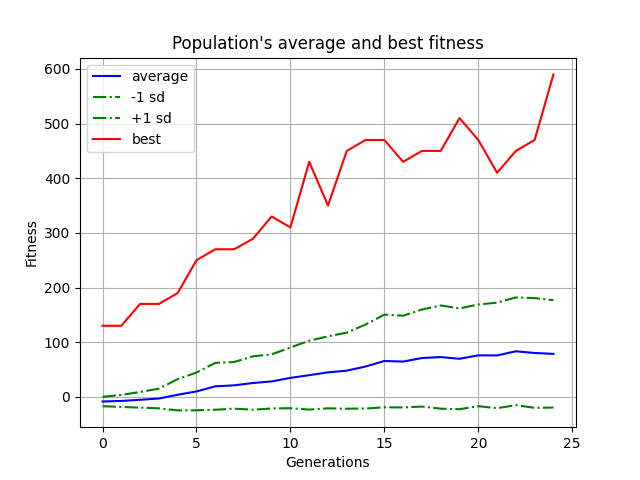
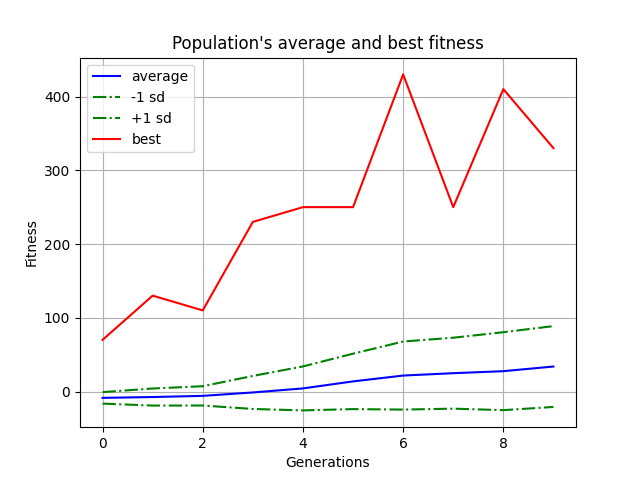
final

diff --git a/snake_game.py b/snake_game.py
@@ -34,31 +34,6 @@ class Snake:
         self.head = [200, 200]
         self.body = [self.head, [190, 200], [180, 200]]
 
-    # def move(self):
-    #     if self.direction == 'right':
-    #         self.head[0] += self.speed
-    #     elif self.direction == 'left':
-    #         self.head[0] -= self.speed
-    #     elif self.direction == 'down':
-    #         self.head[1] += self.speed
-    #     elif self.direction == 'up':
-    #         self.head[1] -= self.speed
-    #
-    # def straight(self):
-    #     self.move()
-    #
-    # def right(self):
-    #     idx = self.clock_wise.index(self.direction)
-    #     new_idx = (idx + 1) % 4
-    #     self.direction = self.clock_wise[new_idx]
-    #     self.move()
-    #
-    # def left(self):
-    #     idx = self.clock_wise.index(self.direction)
-    #     new_idx = (idx - 1) % 4
-    #     self.direction = self.clock_wise[new_idx]
-    #     self.move()
-
     def left(self):
         self.head[0] -= self.speed
         self.direction = 'left'
@@ -204,12 +179,6 @@ def main(genomes, config):
         # Give the outputs to the NN
         for i, snake in enumerate(snakes):
             output = nets[i].activate(get_data(snake, apples[i], block_size))
-            # if output[0] > 0.5:
-            #     snake.straight()
-            # elif output[1] > 0.5:
-            #     snake.right()
-            # elif output[2] > 0.5:
-            #     snake.left()
             if output[0] > 0.5 and snake.direction != 'right':
                 snake.left()
             elif output[1] > 0.5 and snake.direction != 'left':
@@ -228,7 +197,7 @@ def main(genomes, config):
         text = STAT_FONT.render(f'Alive:{len(snakes)} ', 1, (255, 255, 255))
         screen.blit(text, (10, 50))
         pygame.display.update()
-        clock.tick(20)
+        clock.tick(60)
 
 
 def run(config_path):
@@ -237,7 +206,7 @@ def run(config_path):
     p.add_reporter(neat.StdOutReporter(True))
     stats = neat.StatisticsReporter()
     p.add_reporter(stats)
-    winner = p.run(main, 25)
+    winner = p.run(main, 10)
 
     # draw_net(config, winner)
     plot_stats(stats, ylog=False, view=True)

diff --git a/README.md b/README.md
@@ -1,9 +1,11 @@
 # Neat Snake
 
 ## The Neat Algorithm
+
 Neat is a genetic algorithm that creates artificial neural networks (NN). The solution to the problem is given by a fitness function provided by the user. In this project, Neat was used to teach the AI how to play the regular snake game, in which the fitness function rewards the snake for eating apples and staying alive, and penalizes it for dying (biting its tail or the wall). The most fit individuals of each generation are selected to reproduce and pass its NN parameters to their children, similar to actual natural selection.
 
 ![Neat Snake](./images/snake_example.png)
+
 > Snake game.
 
 ## How it works
@@ -11,17 +13,35 @@ Neat is a genetic algorithm that creates artificial neural networks (NN). The so
 A population of 1000 snakes start with random parameters and their AI is improved by each generation. In this project, the snakes don't compete with each other, since they have their own apples and there is no "friendly fire".
 
 ![Snake Gif](./images/snake_gif.gif)
+
 > 25th generation.
 
 The following graph shows the AI evolution through time, as its average fitness increases alongside the generation.
 
 ![Neat Snake](./images/avg_fitness.png)
+
 > Fitness per generation.
 
 ---
 
 ## How To Use
-You can just run it with Gitpod.
+
+### Run with no requirements
+
+You can run the code directly from your browser with Gitpod, a free online dev enviroment for Github.
 
 [![Open in Gitpod](https://gitpod.io/button/open-in-gitpod.svg)](https://gitpod.io/#https://github.com/matrodrigues123/Neat-Snake/master/snake_game.py)
 
+### Run on your machine
+
+To run the code locally, you'll need to download this repo, install python3 and the following dependencies:
+
+<ul>
+<li>numpy<li\>
+<li>pygame<li\>
+<li>neat-python<li\>
+<li>graphviz<li\>
+<li>matplotlib<li\>
+<ul\>
+
+Then, simply run the snake_game.py file.
